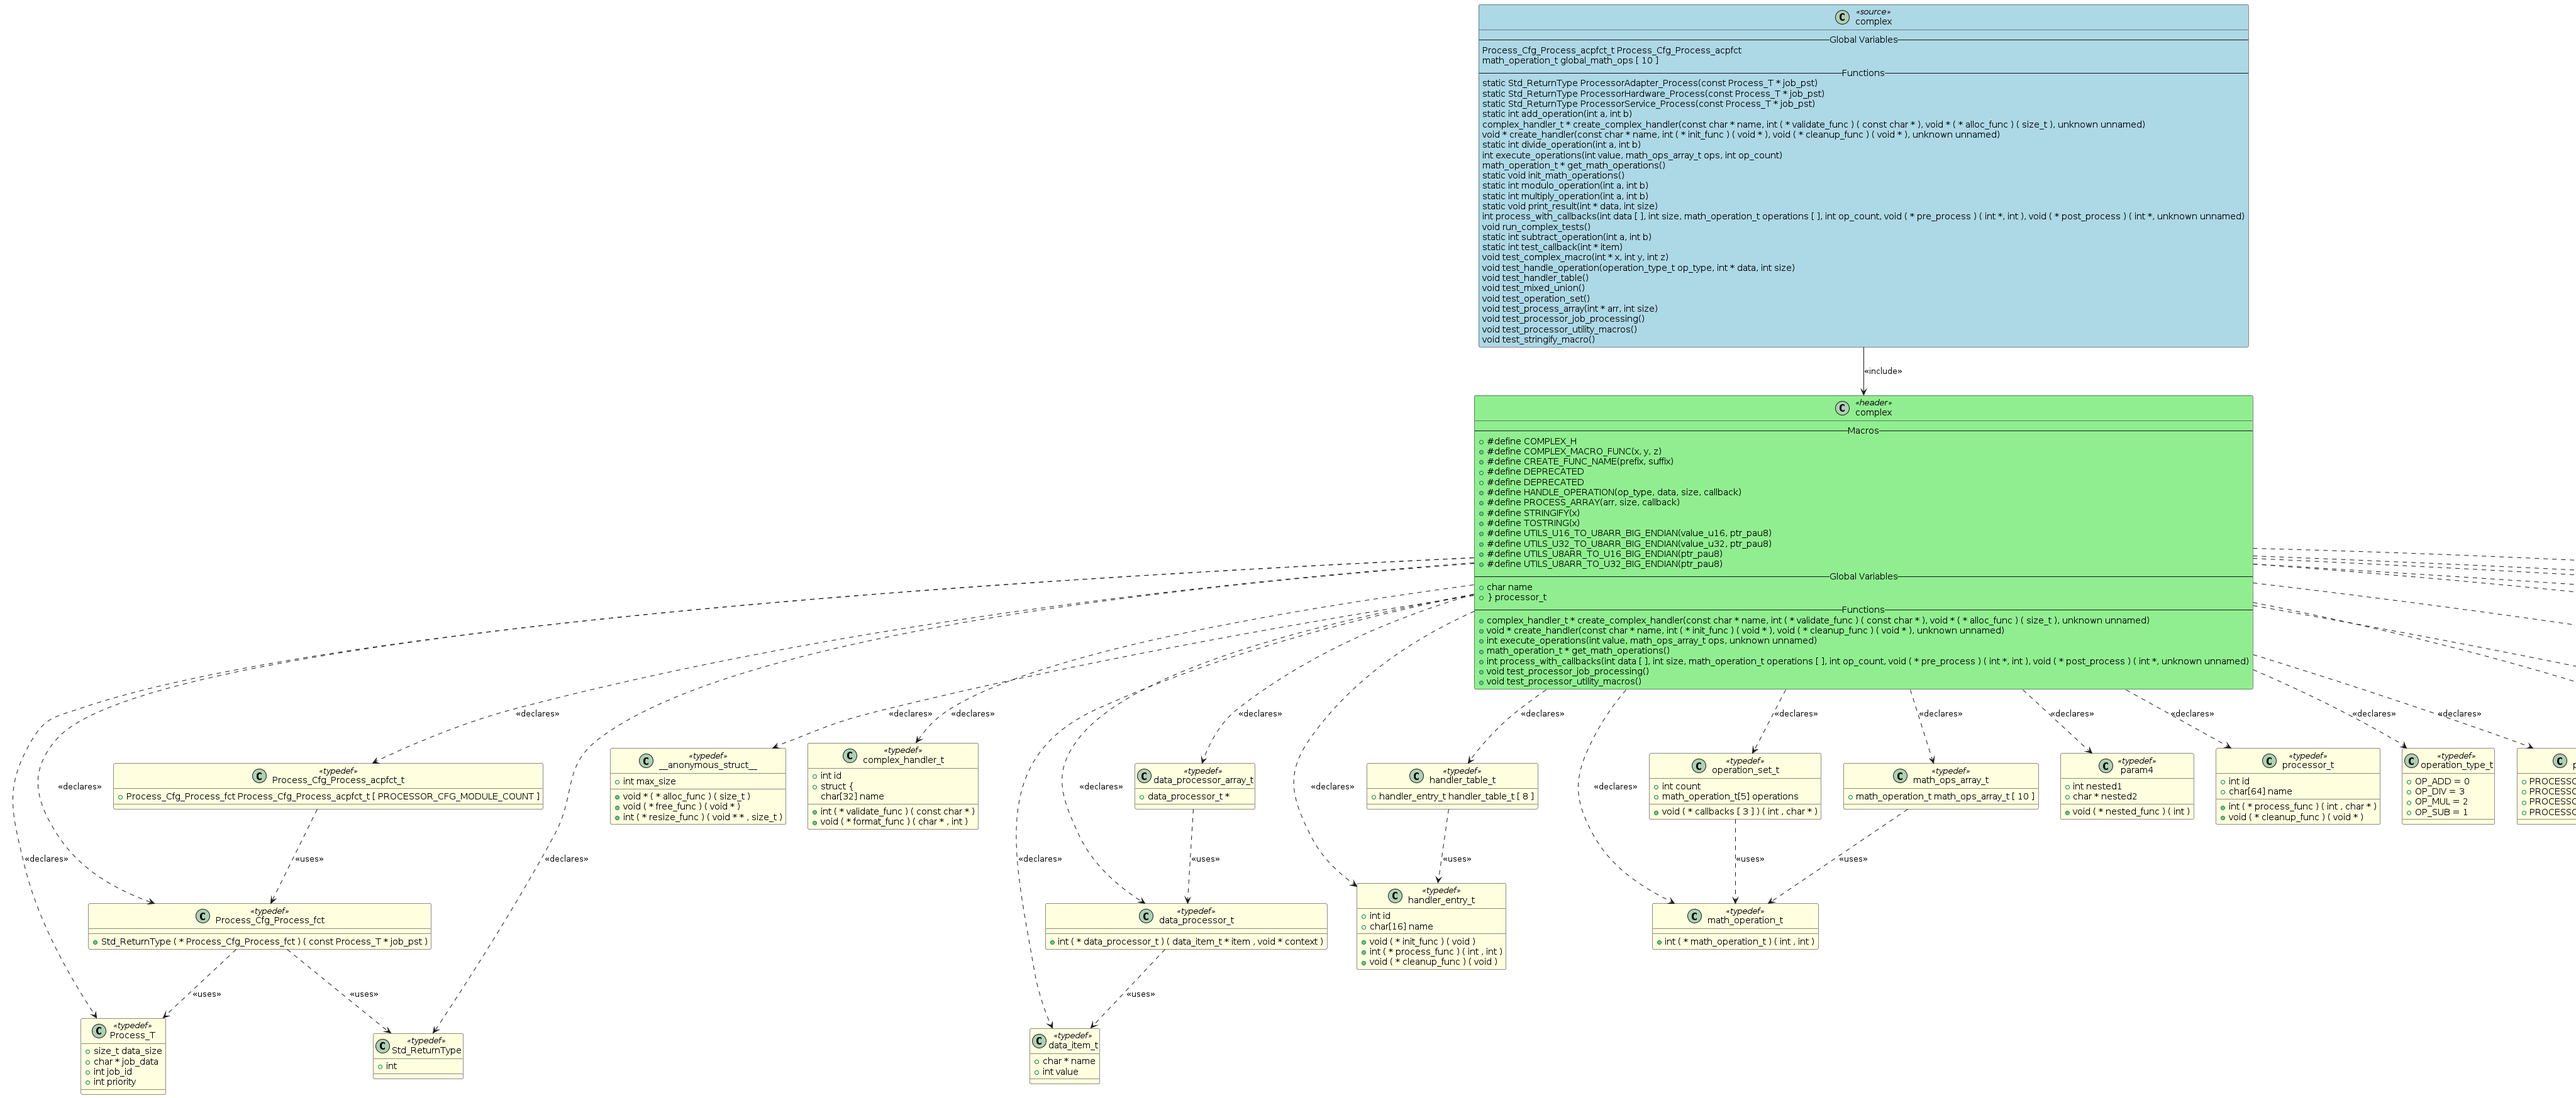
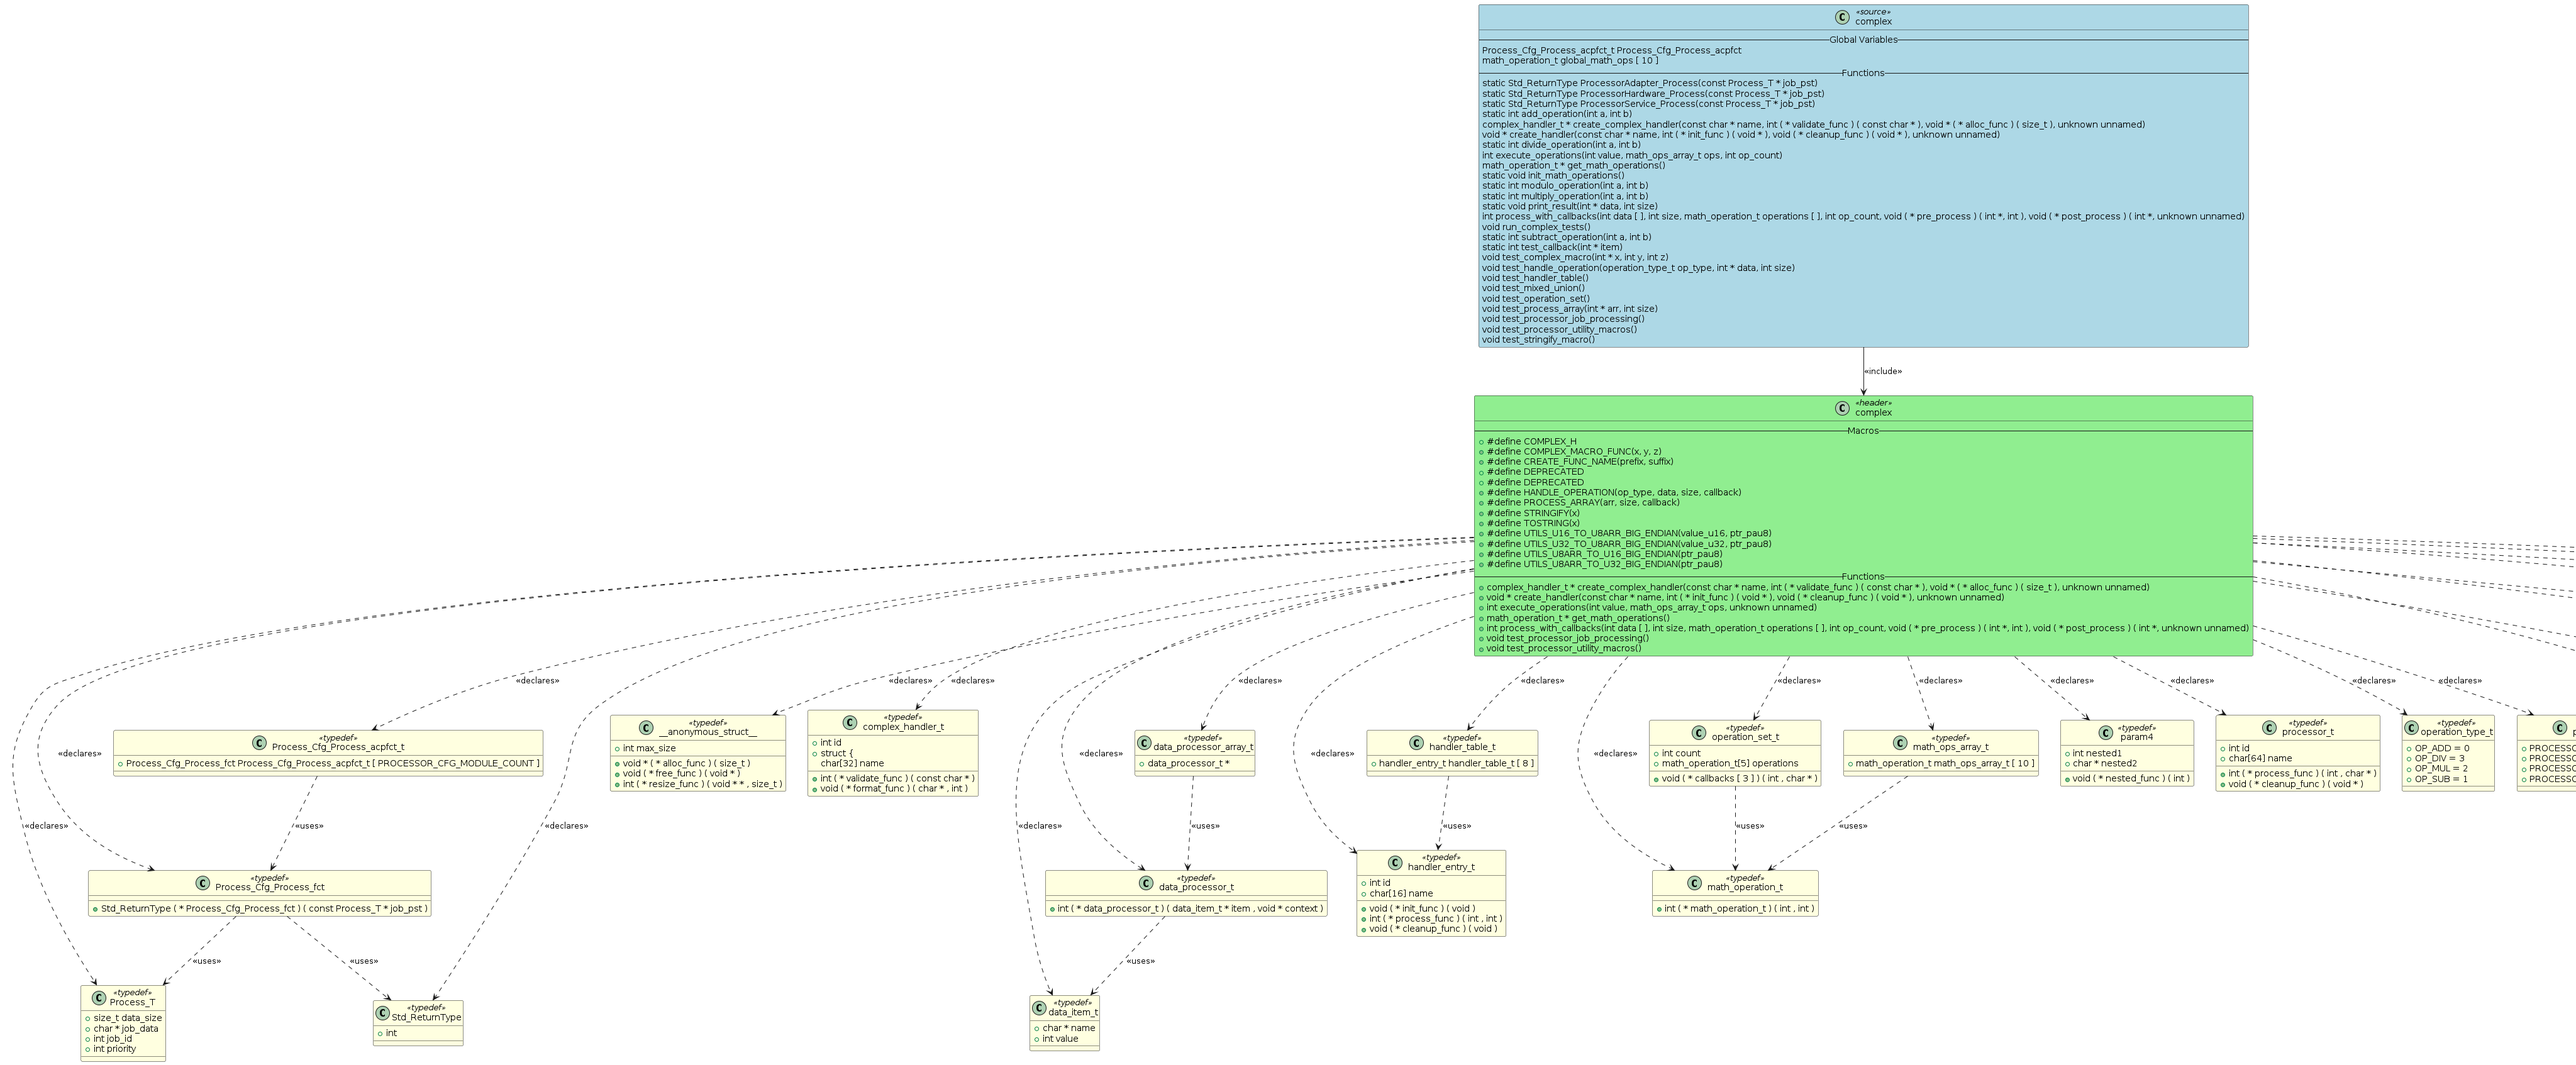
Fix global variable parsing to handle nested structs and complex cases

diff --git a/c_to_plantuml/parser.py b/c_to_plantuml/parser.py
@@ -337,37 +337,65 @@ class CParser:
                 i = self._skip_structure_definition(tokens, i)
                 continue
             
+            # Skip if we're inside a struct definition (look for opening brace)
+            if i > 0 and tokens[i-1].type == TokenType.LBRACE:
+                # We're inside a struct, skip until closing brace
+                brace_count = 1
+                j = i
+                while j < len(tokens) and brace_count > 0:
+                    if tokens[j].type == TokenType.LBRACE:
+                        brace_count += 1
+                    elif tokens[j].type == TokenType.RBRACE:
+                        brace_count -= 1
+                    j += 1
+                i = j
+                continue
+            
             # Skip macros and other preprocessor content
             if tokens[i].type == TokenType.DEFINE:
                 # Skip the entire macro content (multi-line macros are now merged)
                 i += 1
                 continue
             
-            # Look for global variable patterns: [static/extern] type name [= value];
-            global_info = self._parse_global_variable(tokens, i)
-            if global_info:
-                var_name, var_type, var_value = global_info
-                # Only add if it looks like a real global variable (not a fragment)
-                if (var_name and var_name.strip() and 
-                    var_type and var_type.strip() and 
-                    not var_name.startswith('#') and 
-                    len(var_type) < 200 and
-                    not var_type.startswith('\\') and
-                    not var_name.startswith('\\') and
-                    '\\' not in var_type and
-                    '\\' not in var_name):
-                    try:
-                        # Additional validation before creating Field
-                        stripped_name = var_name.strip()
-                        stripped_type = var_type.strip()
-                        if stripped_name and stripped_type:
-                            globals_list.append(Field(name=stripped_name, type=stripped_type, value=var_value))
-                            self.logger.debug(f"Parsed global: {stripped_name} : {stripped_type}")
-                    except Exception as e:
-                        self.logger.warning(f"Error creating global field {var_name}: {e}")
-                i = self._skip_to_semicolon(tokens, i)
+            # Additional check: skip if we're inside any brace block (struct, function, etc.)
+            brace_count = 0
+            j = i - 1
+            while j >= 0:
+                if tokens[j].type == TokenType.RBRACE:
+                    brace_count += 1
+                elif tokens[j].type == TokenType.LBRACE:
+                    brace_count -= 1
+                    if brace_count < 0:
+                        # We're inside a brace block, skip this token
+                        i += 1
+                        break
+                j -= 1
             else:
-                i += 1
+                # Not inside a brace block, proceed with global variable parsing
+                global_info = self._parse_global_variable(tokens, i)
+                if global_info:
+                    var_name, var_type, var_value = global_info
+                    # Only add if it looks like a real global variable (not a fragment)
+                    if (var_name and var_name.strip() and 
+                        var_type and var_type.strip() and 
+                        not var_name.startswith('#') and 
+                        len(var_type) < 200 and
+                        not var_type.startswith('\\') and
+                        not var_name.startswith('\\') and
+                        '\\' not in var_type and
+                        '\\' not in var_name):
+                        try:
+                            # Additional validation before creating Field
+                            stripped_name = var_name.strip()
+                            stripped_type = var_type.strip()
+                            if stripped_name and stripped_type:
+                                globals_list.append(Field(name=stripped_name, type=stripped_type, value=var_value))
+                                self.logger.debug(f"Parsed global: {stripped_name} : {stripped_type}")
+                        except Exception as e:
+                            self.logger.warning(f"Error creating global field {var_name}: {e}")
+                    i = self._skip_to_semicolon(tokens, i)
+                else:
+                    i += 1
         
         return globals_list
 

diff --git a/c_to_plantuml/parser_tokenizer.py b/c_to_plantuml/parser_tokenizer.py
@@ -979,10 +979,42 @@ def find_struct_fields(tokens: List[Token], struct_start: int, struct_end: int) 
             if tokens[pos].type not in [TokenType.WHITESPACE, TokenType.COMMENT]:
                 field_tokens.append(tokens[pos])
             pos += 1
+        
         # Parse field from collected tokens
         if len(field_tokens) >= 2:
+            # Check if this is a nested struct field
+            if (len(field_tokens) >= 3 and 
+                field_tokens[0].type == TokenType.STRUCT and
+                field_tokens[1].type == TokenType.LBRACE):
+                # This is a nested anonymous struct
+                # Find the struct name (last token before semicolon)
+                field_name = field_tokens[-1].value
+                # Create a simplified type representation for nested struct
+                field_type = "struct { ... }"
+                if (field_name and field_name.strip() and 
+                    field_name not in ['[', ']', ';', '}']):
+                    stripped_name = field_name.strip()
+                    if stripped_name:
+                        fields.append((stripped_name, field_type))
+                        # Skip parsing the nested struct's fields as separate fields
+                        continue
+            # Check if this is a nested struct field with more complex structure
+            elif (len(field_tokens) >= 4 and 
+                  field_tokens[0].type == TokenType.STRUCT and
+                  field_tokens[1].type == TokenType.LBRACE and
+                  field_tokens[-1].type == TokenType.IDENTIFIER):
+                # This is a nested anonymous struct with a name
+                field_name = field_tokens[-1].value
+                field_type = "struct { ... }"
+                if (field_name and field_name.strip() and 
+                    field_name not in ['[', ']', ';', '}']):
+                    stripped_name = field_name.strip()
+                    if stripped_name:
+                        fields.append((stripped_name, field_type))
+                        # Skip parsing the nested struct's fields as separate fields
+                        continue
             # Array field: type name [ size ]
-            if (len(field_tokens) >= 4 and
+            elif (len(field_tokens) >= 4 and
                 field_tokens[-3].type == TokenType.LBRACKET and
                 field_tokens[-1].type == TokenType.RBRACKET):
                 field_name = field_tokens[-4].value

diff --git a/example/assertions.py b/example/assertions.py
@@ -1386,6 +1386,23 @@ class PUMLValidator:
         if re.search(r'\\ \n } \n \( x \)', content):
             issues_found.append("Corrupted macro content with broken syntax")
         
+        # Check for corrupted global variables
+        if re.search(r'    \\+ char name$', content, re.MULTILINE):
+            issues_found.append("Corrupted global variable: 'char name' (should be struct field)")
+            print(f"      DEBUG: Found corrupted global 'char name'")
+        
+        if re.search(r'    \\+ } processor_t$', content, re.MULTILINE):
+            issues_found.append("Corrupted global variable: '} processor_t' (should be struct field)")
+            print("      DEBUG: Found corrupted global '} processor_t'")
+        
+        # Check for malformed struct fields
+        if re.search(r'    \\+ struct \\{ \\\\n char\\[32\\] name', content):
+            issues_found.append("Malformed nested struct field in complex_handler_t")
+        
+        # Check for missing proper struct field formatting
+        if re.search(r'    \\+ char\\[32\\] name$', content, re.MULTILINE):
+            issues_found.append("Missing proper struct field formatting for nested struct")
+        
         # Check for missing typedefs
         missing_typedefs = [
             'processor_t',
